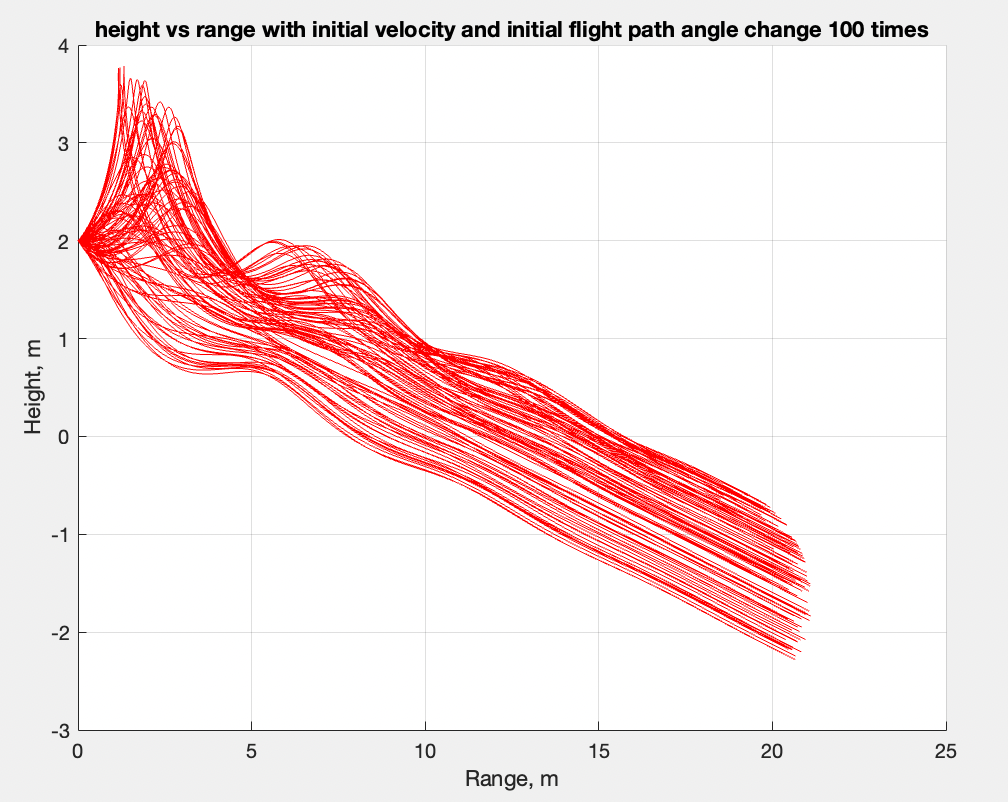
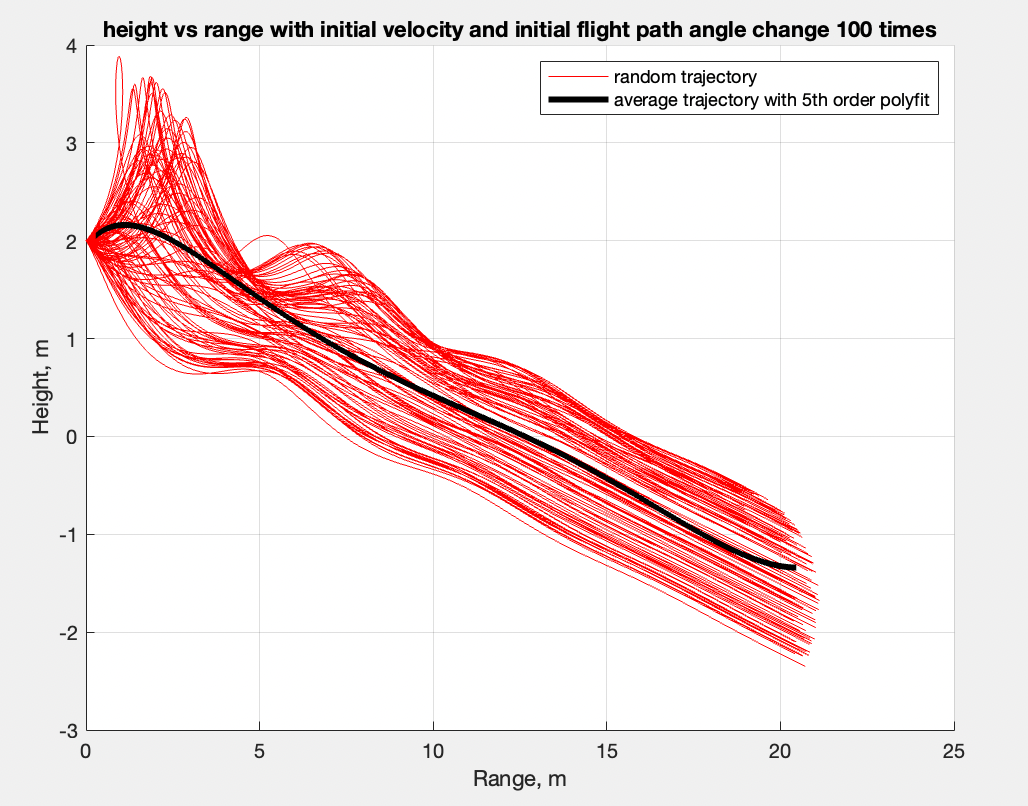
fixed some mistakes and change the figures

diff --git a/PaperPlane.m b/PaperPlane.m
@@ -42,7 +42,7 @@ xlabel('Range, m'), ylabel('Height, m'), grid
     for i=1:100;
 xo		=	[V1(i);Gam1(i);H;R];
 [ta,xa]	=	ode23('EqMotion',tspan,xo);
-plot(xa(:,4),xa(:,3),'r')
+hr=plot(xa(:,4),xa(:,3),'r');
 if i==1
     time=ta;
 else
@@ -60,24 +60,28 @@ else
     height=cat(1,height,xa(:,3));
 end
     end    
-    hold off
-    ph=polyfit(time,height,4);
+    
+    ph=polyfit(time,height,5);
     hy=polyval(ph,tspan);
 
-    pr=polyfit(time,range,4);
+    pr=polyfit(time,range,5);
     ry=polyval(pr,tspan);
-figure
-subplot(2,1,1)
-plot(tspan,hy);
-title('Height vs time ')
-xlabel('Time, s'), ylabel('Height, m'), grid
-legend('fit data with 4th order polynomial');
+    hp=plot(ry,hy,'k','LineWidth',3);
+    hold off
+    legend([hr,hp],'random trajectory','average trajectory with 5th order polyfit')
 
-subplot(2,1,2)
-plot(tspan,ry);
-title('Range vs time ')
-xlabel('Time, s'), ylabel('Range, m'), grid
-legend('fit data with 4th order polynomial');
+    % figure
+% subplot(2,1,1)
+% plot(tspan,hy);
+% title('Height vs time ')
+% xlabel('Time, s'), ylabel('Height, m'), grid
+% legend('fit data with 4th order polynomial');
+% 
+% subplot(2,1,2)
+% plot(tspan,ry);
+% title('Range vs time ')
+% xlabel('Time, s'), ylabel('Range, m'), grid
+% legend('fit data with 4th order polynomial');
 
 %prob4 part
 derh=num_der_central(tspan,hy);

diff --git a/README.md b/README.md
@@ -6,9 +6,6 @@
   ## Summary of Findings
   <Show the variations studied in a table>
 
-  Summarized what was accomplished in this study.  Describe 2-4 observations from simulating the flight path.
-  Reference the figures below as needed.
-
   In this study, The flight path of a paper airplane was simulated 100 times, with different initial velocity and flight path angle which was shown in figure 2. 
   Here are some observations:
   1. Based on Fig. 1, the paper airplane's flight path becomes highly unstable with a high initial velocity, almost flipping over upon launch.
@@ -17,7 +14,6 @@
   *If the analysis falls short of the goal, this is your chance to explain what was done or what were the barriers.*
  
   # Code Listing
-  A list of each function/script and a single-line description of what it does.  The name of the function/script should link to the file in the repository on GitHub.
 
   1. [PaperPlane.m](./PaperPlane.m)
   This file include the data for the paper airplane and the script to simulate and graph all the following figures.
@@ -31,7 +27,7 @@
   # Figures
 
   ## Fig. 1: Single Parameter Variation
-  <2D trajectory simulated by varying single parameter at at time>
+  <2D trajectory simulated by varying single parameter at a time>
   ![problem 2 figure](./figs/fig1.png)
   <The above plot should also show the nominal trajectory>
   In the first figure, it shows the flight path of the paper airplane with highest, nominal and minmum initial velocity.
@@ -41,7 +37,7 @@
   <2D trajectories simulated using random sampling of parameters, overlay polynomial fit onto plot.>
 ![problem 3 figure](./figs/fig2.png)
 
-  In this figure, it shows 100 flight path of the paper airplane with different inital velocity and initial flight path angle.
+  In this figure, it shows 100 flight path of the paper airplane with different inital velocity and initial flight path angle. The black line is the average trajectory of the 100 path which fit with a 5th order polynominal. (The 5th order was used because the result line is smooth and is about in the center of all the other lines)
 
  ## Fig. 3: Time Derivatives
  <Time-derivative of height and range for the fitted trajectory>
